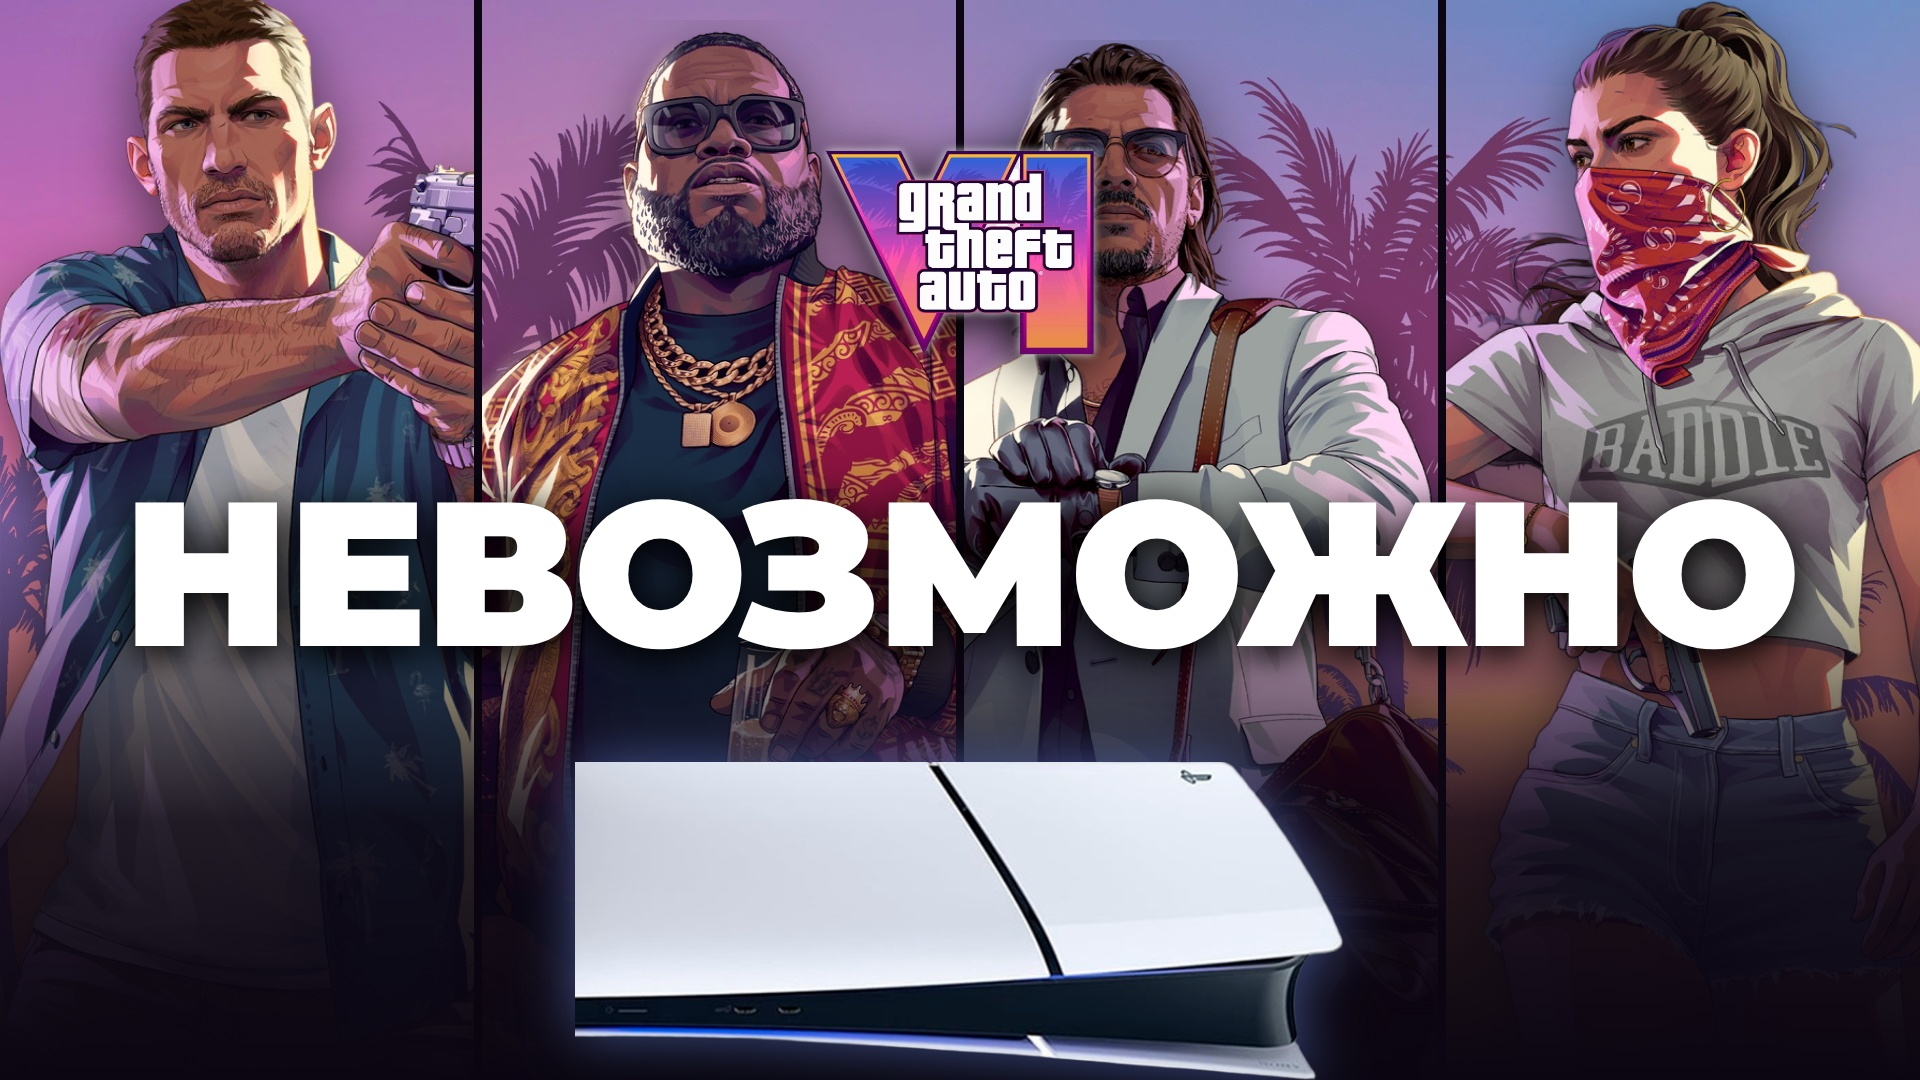
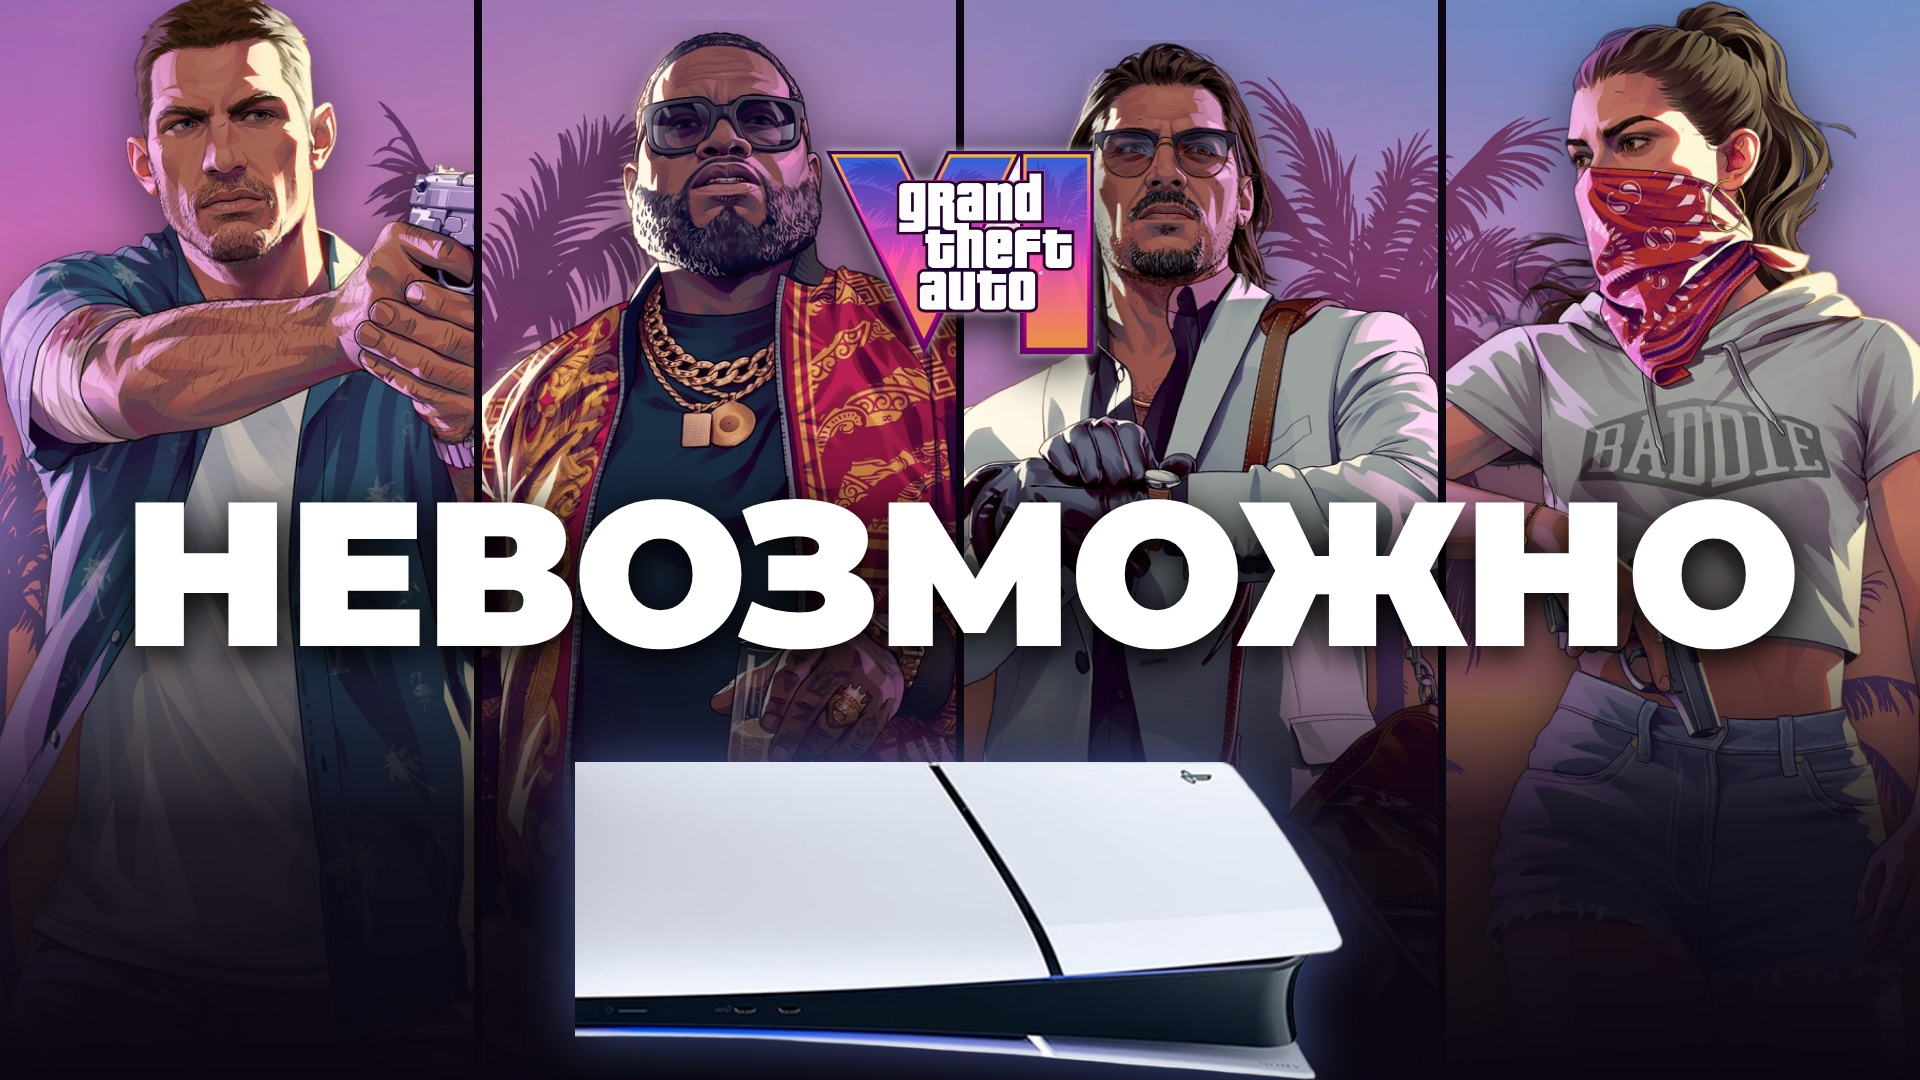
GTA 6 thumbnail: Raul slightly right
Claude-Session: https://claude.ai/code/session_01RHFrx85Hg5RpkQEmnVQQfw

Changed region(s): [[0.5, 0.0306, 0.75, 0.7333], [0.6562, 0.4889, 0.6875, 0.5194]]

diff --git a/gta6/thumb/thumb4.html b/gta6/thumb/thumb4.html
@@ -14,7 +14,7 @@ html,body{width:1920px;height:1080px;overflow:hidden;background:#0b0612;font-fam
 </style></head><body>
 <div class="p" style="left:0px"><div class="bg" style="background-position:-0px 0"></div><img src="/gta6/cut/jason.png" style="top:-10px;width:700px;margin-left:15px"></div>
 <div class="p" style="left:482px"><div class="bg" style="background-position:-482px 0"></div><img src="/gta6/cut/boobie.png" style="top:20px;width:760px;margin-left:30px"></div>
-<div class="p" style="left:964px"><div class="bg" style="background-position:-964px 0"></div><img src="/gta6/cut/raul.png" style="top:40px;width:740px;margin-left:-15px"></div>
+<div class="p" style="left:964px"><div class="bg" style="background-position:-964px 0"></div><img src="/gta6/cut/raul.png" style="top:40px;width:740px;margin-left:35px"></div>
 <div class="p" style="left:1446px"><div class="bg" style="background-position:-1446px 0"></div><img src="/gta6/cut/lucia.png" style="top:0px;width:720px;margin-left:-40px"></div>
 <div class="shade"></div>
 <img class="logo" id="logo" src="/gta6/cut/gta6_logo.png">
